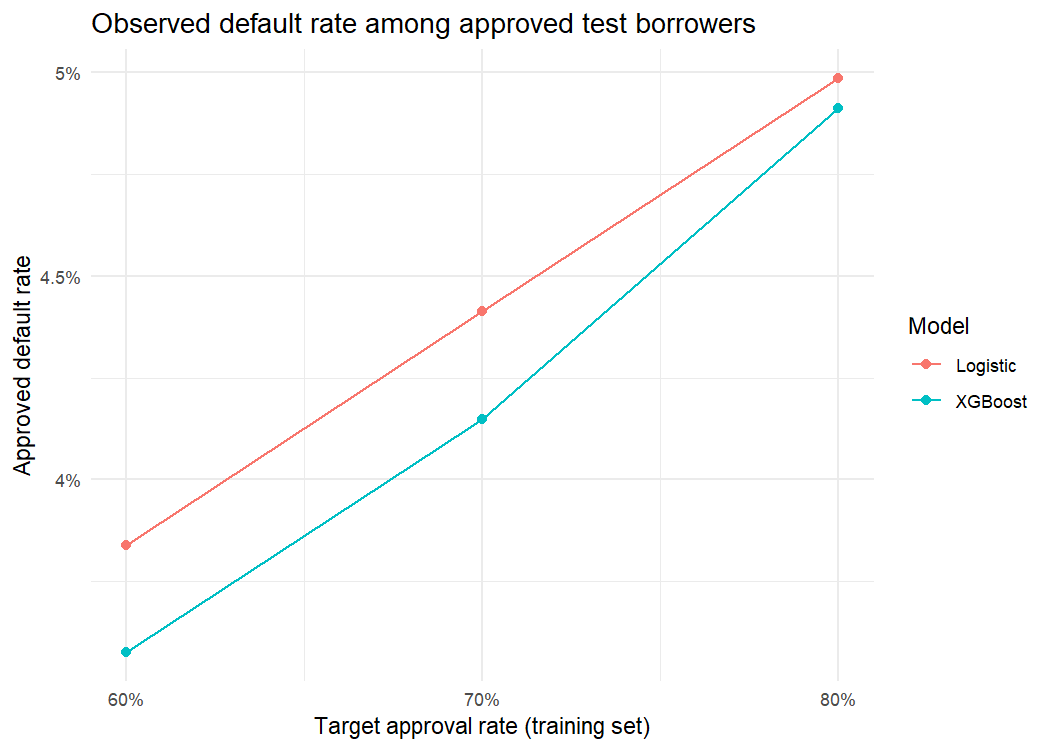
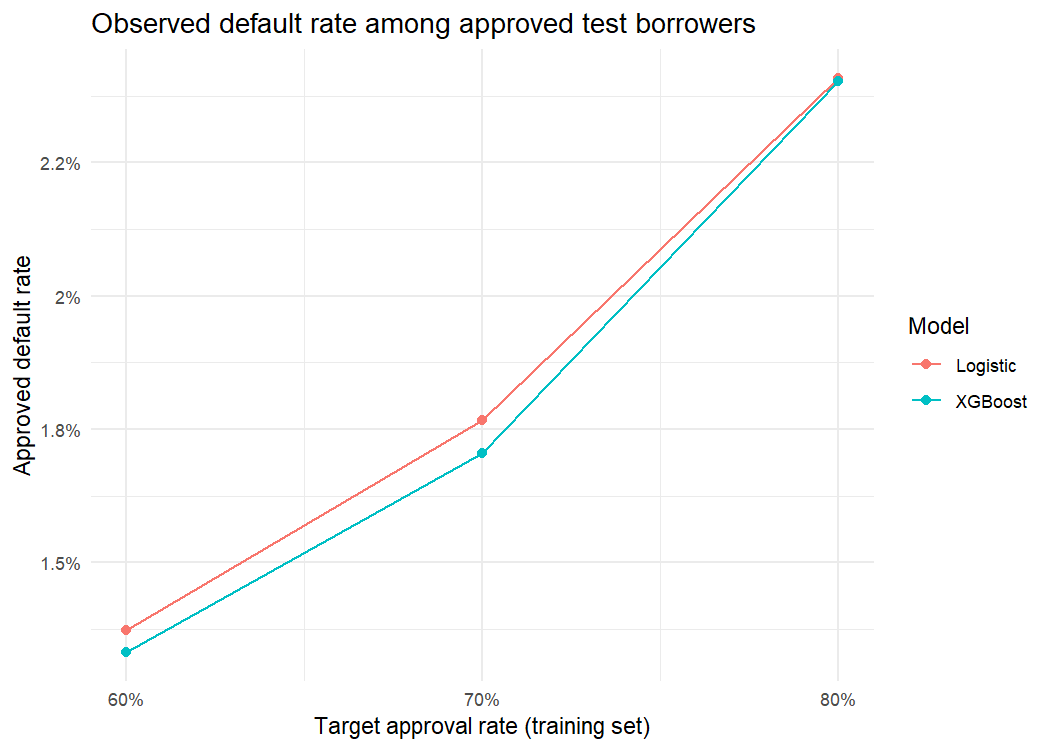
Retain informative credit history variables in IV selection

diff --git a/README.md b/README.md
@@ -6,10 +6,13 @@ This project uses the [Give Me Some Credit dataset](https://www.kaggle.com/compe
 
 `cs-training.csv` contains the observed outcome (`SeriousDlqin2yrs`, where 1 means serious delinquency within two years). The supplied `cs-test.csv` has no outcome labels, so it is used only for score-distribution comparison. One record with `age <= 0` is removed from the labelled data. A stratified, seeded 70/30 split leaves **104,999 training** and **45,000 test** records; the external file has **101,503** records.
 
-The training medians fill missing `MonthlyIncome` and `NumberOfDependents` values in all three datasets. The training set alone determines WOE bins, their IV, and the scorecard. Variables are retained when **0.02 < binned IV < 0.5**, following the original project's conservative rule. The selected variables and IV are:
+The training medians fill missing `MonthlyIncome` and `NumberOfDependents` values in all three datasets. The training set alone determines WOE bins, their IV, and the scorecard. Variables are retained when **binned IV > 0.02**. The selected variables and IV are:
 
 | Variable | Binned IV |
 |---|---:|
+| RevolvingUtilizationOfUnsecuredLines | 1.0470 |
+| NumberOfTimes90DaysLate | 0.8407 |
+| NumberOfTime30-59DaysPastDueNotWorse | 0.7193 |
 | age | 0.2621 |
 | NumberOfOpenCreditLinesAndLoans | 0.0789 |
 | DebtRatio | 0.0692 |
@@ -17,7 +20,7 @@ The training medians fill missing `MonthlyIncome` and `NumberOfDependents` value
 | NumberRealEstateLoansOrLines | 0.0576 |
 | NumberOfDependents | 0.0351 |
 
-The upper IV cutoff excludes revolving utilization (1.0470) and two past-due counts (0.8407 and 0.7193). These are plausible credit-risk variables; a high IV alone does **not** establish leakage. This conservative rule therefore gives up predictive information and limits the model's discrimination.
+Revolving utilization and past-due counts describe credit use and delinquency history that can inform a lending decision. Their high IV warrants review, but is not itself evidence of target leakage. The supplied files do not include observation timestamps, so the historical timing of individual records cannot be independently checked. The 60–89 day past-due count has IV below 0.02 and is excluded.
 
 Logistic regression and XGBoost use the same selected WOE variables. XGBoost has fixed parameters and 100 rounds; the test set is never used for fitting, tuning, or early stopping. Test-set AUC, KS, and Brier score evaluate the models. Lower Brier score means more accurate probability predictions.
 
@@ -27,10 +30,10 @@ The logistic scorecard uses `scorecard::scorecard()` and `scorecard_ply()` with 
 
 | Model | Test AUC | KS | Brier score | AUC 95% CI (DeLong) |
 |---|---:|---:|---:|---:|
-| Logistic regression | 0.6799 | 0.2826 | 0.06085 | 0.6704–0.6895 |
-| XGBoost | 0.6957 | 0.2986 | 0.06038 | 0.6863–0.7051 |
+| Logistic regression | 0.8539 | 0.5535 | 0.05122 | 0.8467–0.8610 |
+| XGBoost | 0.8576 | 0.5626 | 0.05034 | 0.8506–0.8646 |
 
-XGBoost's AUC advantage is **0.0158** (paired DeLong 95% CI **0.0121–0.0194**, p = **2.93 × 10⁻¹⁷**). The difference is statistically clear in this large test sample, but its size is modest. XGBoost also has a slightly lower Brier score. The [calibration plot](Outputs/Calibration.png) shows both models reasonably close to observed rates across training-defined probability groups; the logistic model overpredicts somewhat in the highest-risk group. AUC measures ranking, not probability accuracy, so the Brier score and calibration plot address a separate question.
+Both models improve substantially over the previous six-variable specification (AUC 0.6799 and 0.6957), alongside the inclusion of revolving utilization and past-due history. This comparison does not isolate the causal contribution of any one variable. XGBoost's new AUC advantage is **0.0037** (paired DeLong 95% CI **0.0022–0.0052**, p = **9.78 × 10⁻⁷**): statistically detectable in this large sample, but small in practice. XGBoost also has a slightly lower Brier score. The [calibration plot](Outputs/Calibration.png) shows both models close to observed rates across training-defined probability groups. AUC measures ranking, not probability accuracy, so the Brier score and calibration plot address a separate question.
 
 ![Test ROC curves](Outputs/ROC_Curve.png)
 
@@ -40,24 +43,24 @@ For an illustrative approval exercise, each cutoff is the 60th, 70th, or 80th pe
 
 | Model | Target approval | Actual test approval | Default rate among approved |
 |---|---:|---:|---:|
-| Logistic regression | 60% | 59.70% | 3.84% |
-| XGBoost | 60% | 59.50% | 3.57% |
-| Logistic regression | 70% | 69.56% | 4.42% |
-| XGBoost | 70% | 69.58% | 4.15% |
-| Logistic regression | 80% | 79.64% | 4.99% |
-| XGBoost | 80% | 79.81% | 4.91% |
+| Logistic regression | 60% | 59.88% | 1.37% |
+| XGBoost | 60% | 59.92% | 1.33% |
+| Logistic regression | 70% | 69.95% | 1.77% |
+| XGBoost | 70% | 69.83% | 1.71% |
+| Logistic regression | 80% | 79.84% | 2.41% |
+| XGBoost | 80% | 79.90% | 2.40% |
 
-The XGBoost groups have slightly lower observed default rates at all three targets. Actual approval rates differ a little because the cutoffs come from training data. The labelled test set's overall default rate is **6.68%**.
+The XGBoost groups have slightly lower observed default rates at all three targets; the difference is especially small at 80%. Actual approval rates differ a little because the cutoffs come from training data. The labelled test set's overall default rate is **6.68%**.
 
 ![Approval analysis](Outputs/Approval_Analysis.png)
 
-Score PSI uses training-score decile boundaries for both comparisons: **0.00056** for training versus the random holdout, and **0.00025** for training versus the supplied unlabeled file. These small values describe similar score distributions in these files. Neither comparison is a time-based stability test, and outcomes are unavailable for the external file.
+Score PSI uses training-score decile boundaries for both comparisons: **0.00040** for training versus the random holdout, and **0.00031** for training versus the supplied unlabeled file. These small values describe similar score distributions in these files. Neither comparison is a time-based stability test, and outcomes are unavailable for the external file.
 
 ![Test score distribution](Outputs/Score_Distribution.png)
 
 ## Reproduce
 
-From the repository root, install `scorecard`, `ggplot2`, `xgboost`, and `pROC`, then run:
+Download `cs-training.csv` and `cs-test.csv` from Kaggle's [Give Me Some Credit dataset](https://www.kaggle.com/c/GiveMeSomeCredit/data) and place them in the project root. From there, install `scorecard`, `ggplot2`, `xgboost`, and `pROC`, then run:
 
 ```r
 source("Credit_Risk_Scorecard.R")
